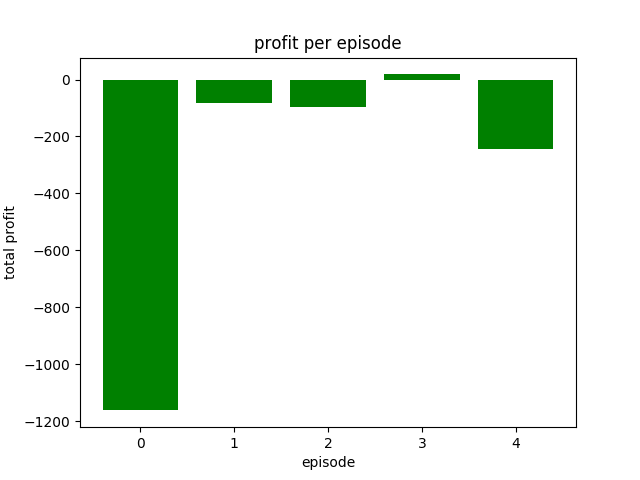
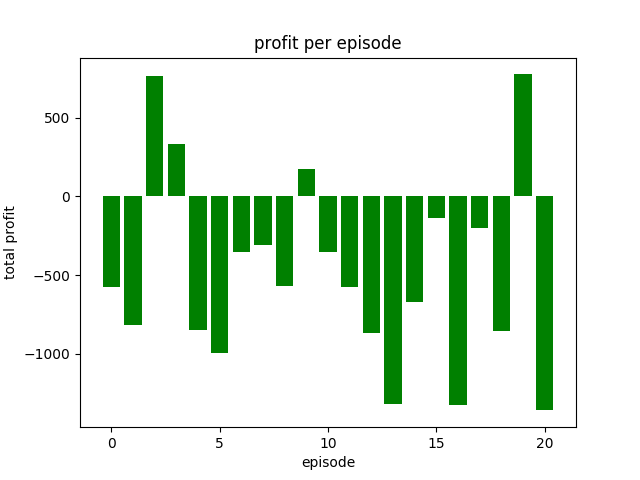
bug with epsilon_decay

diff --git a/rl.py b/rl.py
@@ -24,7 +24,7 @@ def learn():
 
 			if action == 1:  # buy
 				agent.open_orders.append(data[t])
-				print(f'{t} Buy  @ ' + formatPrice(data[t]))
+				print(f'row #{t} Buy  @ ' + formatPrice(data[t]))
 				reward = 0
 				trade_count += 1
 
@@ -34,9 +34,9 @@ def learn():
 				profit = data[t] - bought_price
 				reward = env.get_reward(profit)
 				total_profit += profit
-				print(f'{t} Sell @ ' + formatPrice(data[t]) + " | Profit: " + formatPrice(profit))
+				print(f'row #{t} Sell @ ' + formatPrice(data[t]) + " | Profit: " + formatPrice(profit))
 			else:# hold
-				print (f'{t} Hold')
+				#print (f'row #{t} Hold')
 				reward     = 0
 
 			done = True if t == l - 1 else False
@@ -68,8 +68,8 @@ start_time = time.time()
 np.random.seed(7)
 stock_name    = '^GSPC_2011'#^GSPC  ^GSPC_2011
 window_size   = 10# (t) 10 days
-episode_count = 20# minimum 200 episodes for results. episode represent trade and learn on all data.
-batch_size    = 10# learn  model every bar start from bar # batch_size
+episode_count = 200# minimum 200 episodes for results. episode represent trade and learn on all data.
+batch_size    = 15# learn  model every bar start from bar # batch_size
 use_existing_model = False
 agent         = Agent(window_size, use_existing_model, '')
 data          = getStockDataVec(stock_name)

diff --git a/backtest.py b/backtest.py
@@ -31,7 +31,7 @@ def bt():
             total_profit += profit - trading_fee
             print("Sell @ " + formatPrice(data[t]) + " | Profit: " + formatPrice(profit))
         else:# hold
-            #print ('hold')
+            #print ('Hold')
             reward     = 0
 
         done = True if t == l - 1 else False
